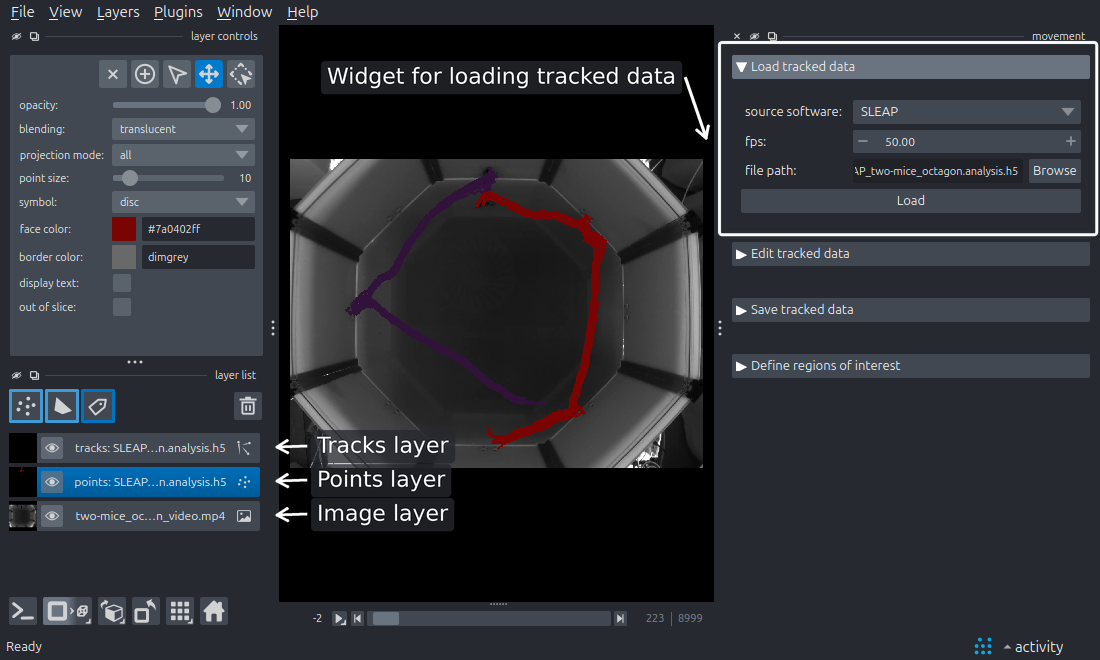
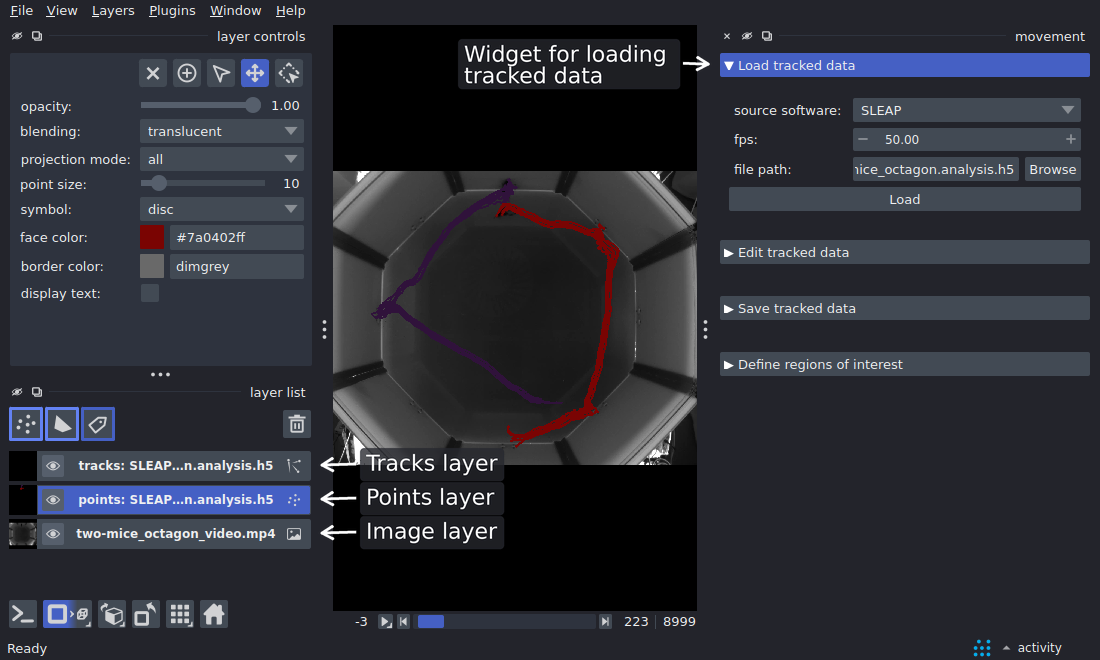
Point the loader label at its section header in poses screenshot
Point the "Widget for loading tracked data" label at the section
header, with a short horizontal arrow and no box, as in the regions
screenshots. Regenerate the screenshot with napari 0.9.2, which also
shows the layer labels with equal widths.

diff --git a/docs/make_gui_screenshots.py b/docs/make_gui_screenshots.py
@@ -576,10 +576,10 @@ def poses_layers(out: Path) -> Path:
     gui.viewer.dims.set_current_step(0, 223)
     labels = [
         Label(
-            gui.rect(gui.section(LOAD_SECTION)),
-            "Widget for loading tracked data",
+            gui.rect(gui.section(LOAD_SECTION).toggleButton()),
+            "Widget for loading \ntracked data",
             side="left",
-            shift=-60,
+            box=False,
         ),
         *row_labels(
             gui, ["tracks", "points", ""], ["Tracks", "Points", "Image"]
